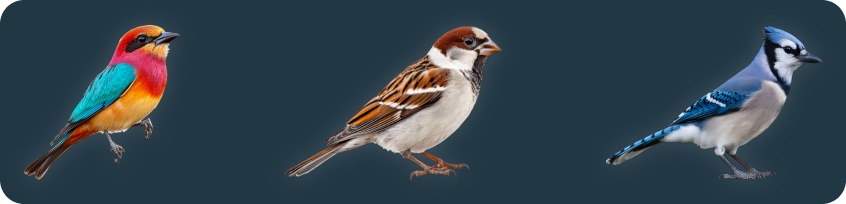
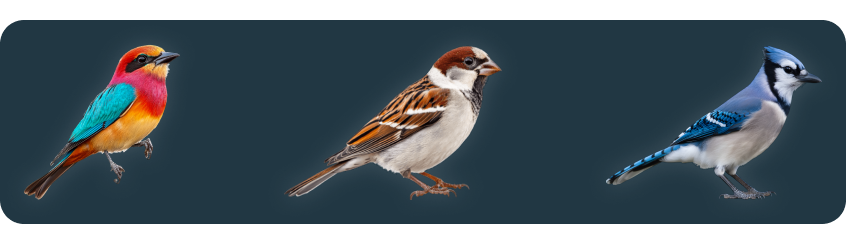
added animations to card

diff --git a/index.css b/index.css
@@ -174,6 +174,7 @@ body{
     justify-content: center;
     align-items: center;
     gap: .5rem;
+    transition: all 0.25s ease;
 }
 
 .tile{
@@ -182,6 +183,15 @@ body{
     width: 28%;
     height: auto;
     aspect-ratio: 1/1;
+    transition: all 0.1s ease;
+}
+
+.tile:hover{
+    transform: scale(1.05);
+}
+
+.tile:active{
+    transform: scale(0.9);
 }
 
 #ticket-price{

diff --git a/index.js b/index.js
@@ -4,6 +4,7 @@
         5/12/2026
 */
 
+const tilesContainer = document.getElementById("card-tiles");
 const tiles = document.querySelectorAll(".tile");
 const newCardButton = document.getElementById("new-card");
 const rewardNotification = document.getElementById("reward-notification");
@@ -40,6 +41,9 @@ function generateCard(){
 
         tileResults.push(randomTile);
     });
+    setTimeout(() => {
+        tilesContainer.style.opacity = "1";
+    }, 1000);
 }
 
 function revealTile(ele){
@@ -51,8 +55,7 @@ function revealTile(ele){
         return;
     }
 
-    const index =
-        Number(ele.id.split("-")[1]) - 1;
+    const index = Number(ele.id.split("-")[1]) - 1;
 
     ele.dataset.revealed = "true";
 
@@ -126,6 +129,7 @@ tiles.forEach((tile) => {
 });
 
 newCardButton.addEventListener("click", () => {
+    tilesContainer.style.opacity = "0";
     generateCard();
 });
 